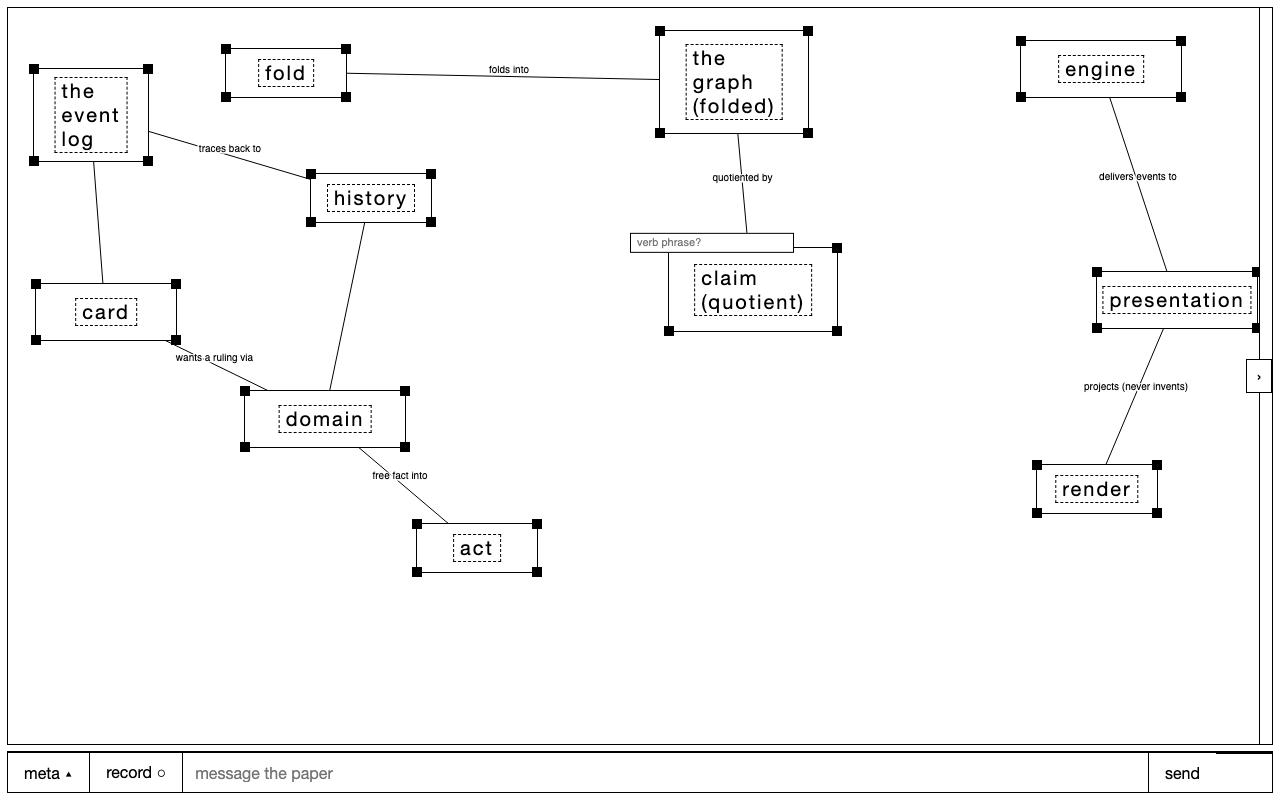
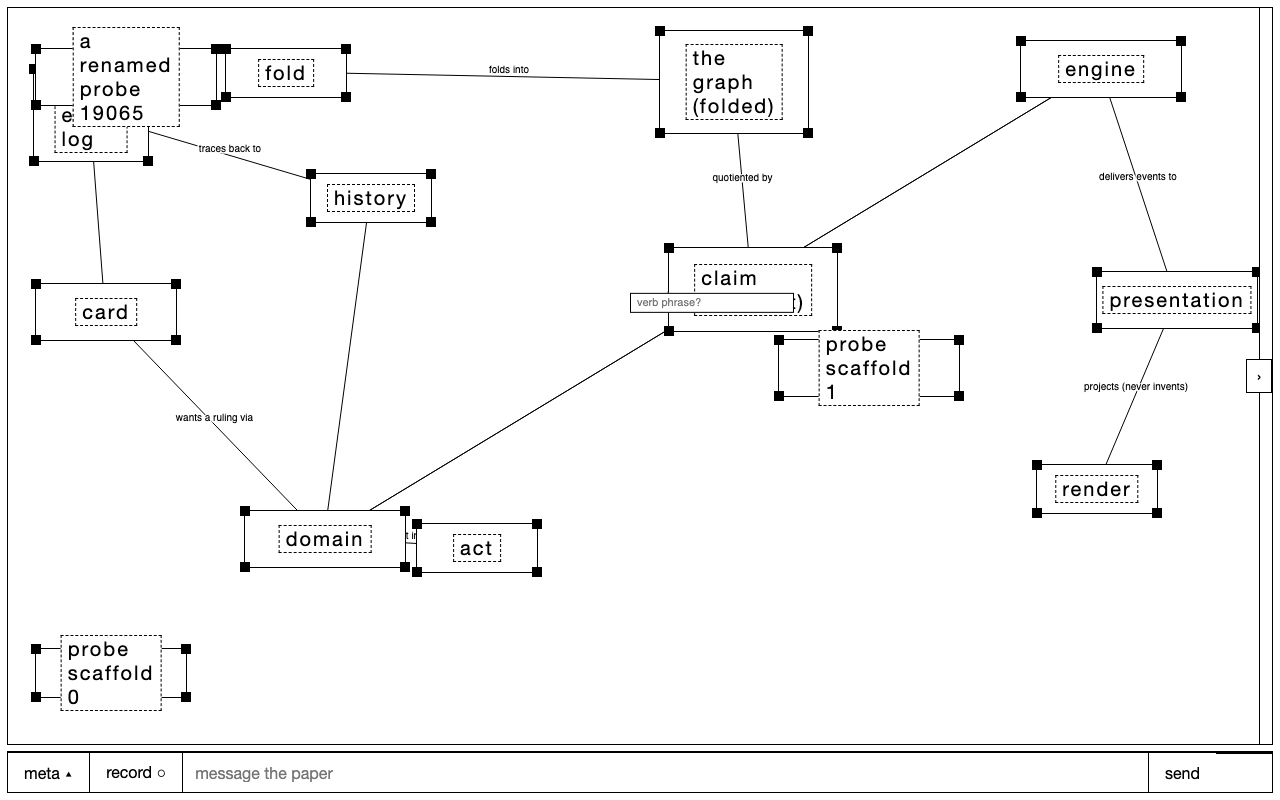
nodes by hand: dblclick empty plane creates (inline name ask, n_<ts>_<rand4>), dblclick a pill renames in place (same id — identity preserved, profile changes). Two bugs of mine found by makeprobe: (1) the link gesture's pointer capture retargets dblclick to the plane, so the handler hit-tests by co

diff --git a/web/index.html b/web/index.html
@@ -95,7 +95,6 @@
           el.dataset.i = i;
           const label = document.createElement('span');
           label.className = 'label';
-          label.textContent = b.label ?? b.name ?? '';
           el.append(label);
           for (const c of ['nw', 'ne', 'sw', 'se']) {
             const h = document.createElement('div');
@@ -105,6 +104,9 @@
           }
           playground.append(el);
         }
+        // reproject EVERY render — a rename must reach an existing element's
+        // label, not just a freshly created one (found by makeprobe)
+        el.querySelector('.label').textContent = b.label ?? b.name ?? '';
         el.style.left = b.x + 'px';
         el.style.top = b.y + 'px';
         el.style.width = b.w + 'px';
@@ -422,6 +424,64 @@ One clause is still owed: a box flanked on both axes at once — one neighbor ea
         logEvent({ kind: 'edge', id: from + '>' + to + (commit ? ':' + commit : ''), from, to, label: commit });
     }
 
+    // ——— node creation & rename: the name ask (same contract as the verb ask) ———
+    // double-click empty playground = create; double-click a label pill = rename.
+    // Enter commits the node act, Escape/blur/click-away abandons. Rename re-emits
+    // the SAME id (latest node per id wins) — the label-arrow changes, the object
+    // doesn't: identity is the fold key, never the profile.
+    let nameAsk = null; // { mode: 'create'|'rename', id?, x?, y?, el }
+    function askName(mode, x, y, id, prefill) {
+      closeName(null); // one ask at a time
+      if (!playground) return;
+      const el = document.createElement('input');
+      el.className = 'verbin'; // same house style — it IS the same kind of ask
+      el.placeholder = mode === 'create' ? 'noun phrase?' : 'rename?';
+      el.value = prefill ?? '';
+      el.style.left = x + 'px';
+      el.style.top = y + 'px';
+      playground.append(el);
+      el.focus();
+      el.select();
+      nameAsk = { mode, id, x, y, el };
+      el.addEventListener('keydown', (ev) => {
+        if (ev.key === 'Enter') closeName(el.value);
+        else if (ev.key === 'Escape') closeName(null);
+      });
+      el.addEventListener('blur', () => closeName(null));
+    }
+    function closeName(commit) {
+      if (!nameAsk) return;
+      const { mode, id, x, y, el } = nameAsk;
+      nameAsk = null;
+      el.remove();
+      if (commit === null || !commit.trim()) return; // empty = abandon
+      if (mode === 'create') {
+        const r4 = Math.random().toString(36).slice(2, 6);
+        logEvent({ kind: 'node', id: 'n_' + Date.now() + '_' + r4, label: commit.trim(), node_kind: 'object', geom: { x: Math.round(x), y: Math.round(y), w: 180, h: 56 } });
+      } else if (id) {
+        const b = boxes.find((v) => v.name === id);
+        logEvent({ kind: 'node', id, label: commit.trim(), node_kind: b?.kind });
+      }
+    }
+    plane.addEventListener('dblclick', (e) => {
+      if (!sketch || !playground || nameAsk || verbAsk) return;
+      // pointer capture retargets dblclick to the plane (the link gesture grabs
+      // capture on first click), so e.target lies — hit-test by coordinates
+      const hit = document.elementFromPoint(e.clientX, e.clientY);
+      if (!hit) return;
+      const pill = hit.closest('.label');
+      const boxEl = hit.closest('.box');
+      if (pill && boxEl) { // rename in place
+        const b = boxes[+boxEl.dataset.i];
+        if (!b) return;
+        askName('rename', b.x + b.w / 2, b.y + b.h / 2, b.name, b.label);
+      } else if (hit === playground) { // create at the click point
+        const r = playground.getBoundingClientRect();
+        askName('create', e.clientX - r.left, e.clientY - r.top, null, '');
+      }
+      // clicks on box bodies / handles / doc elements: not ours
+    });
+
     plane.addEventListener('pointerup', (e) => {
       if (link) { // drop on a box opens the verb ask; drop in space abandons
         const target = document.elementFromPoint(e.clientX, e.clientY)?.closest('.box');
@@ -577,7 +637,7 @@ THE THREE MACHINES (07:50): the system is layered orthogonal state machines — 
     document.getElementById('fprev').addEventListener('click', () => switchFrame(frame - 1));
     document.getElementById('fnext').addEventListener('click', () => switchFrame(frame + 1));
     document.addEventListener('keydown', (e) => {
-      if (e.target === t || e.target === verbAsk?.el) return; // typing in the chat bar or the verb ask
+      if (e.target === t || e.target === verbAsk?.el || e.target === nameAsk?.el) return; // typing in the chat bar or any inline ask
       if (e.key === 'ArrowLeft') switchFrame(frame - 1);
       if (e.key === 'ArrowRight') switchFrame(frame + 1);
     });

diff --git a/web/makeprobe.ts b/web/makeprobe.ts
@@ -1,0 +1,78 @@
+// web/makeprobe.ts — verify node creation (dblclick empty plane) and rename
+// in place (dblclick a label pill, same id preserved). Run: bun web/makeprobe.ts
+
+import { chromium } from "../prototypes/interaction/node_modules/playwright/index.js";
+import { mkdirSync } from "node:fs";
+
+const URL = process.env.PAPER_URL ?? "http://localhost:5174";
+const OUT = "web/shots";
+mkdirSync(OUT, { recursive: true });
+
+const browser = await chromium.launch();
+const page = await browser.newPage({ viewport: { width: 1280, height: 800 } });
+page.on("pageerror", (e) => console.log("pageerror:", String(e).slice(0, 300)));
+await page.goto(URL, { waitUntil: "networkidle" });
+await page.waitForTimeout(2500);
+
+for (let i = 0; i < 9; i++) {
+  const t = await page.locator("#frame-title").textContent();
+  if (t.includes("olog")) break;
+  await page.click("#fnext");
+  await page.waitForTimeout(150);
+}
+console.log("frame:", await page.locator("#frame-title").textContent());
+
+const stamp = Date.now() % 100000;
+const NAME = "a probe node " + stamp;
+const RENAME = "a renamed probe " + stamp;
+
+// (a) create: double-click a clear spot mid-plane (not near an edge —
+// nodes overflow the playground bottom and clicks then miss the pill)
+const pg = await page.locator("#playground").boundingBox();
+await page.mouse.dblclick(pg.x + pg.width * 0.85, pg.y + pg.height * 0.35);
+const ask = page.locator(".verbin");
+console.log("create ask visible:", await ask.count() === 1);
+await ask.fill(NAME);
+await ask.press("Enter");
+await page.waitForTimeout(2600); // act → drain → poll
+
+const created = page.locator("#playground .box", { hasText: NAME });
+const createdCount = await created.count();
+console.log("created node on plane:", createdCount === 1);
+await page.screenshot({ path: `${OUT}/olog-make-1-created.png` });
+
+// (b) rename: double-click the pill of the node we just made (mid-plane, safe)
+const pill = created.locator(".label");
+await pill.dblclick();
+const ask2 = page.locator(".verbin");
+console.log("rename ask visible:", await ask2.count() === 1);
+await ask2.fill(RENAME);
+await ask2.press("Enter");
+await page.waitForTimeout(2600);
+
+const renamed = await page.locator("#playground .box", { hasText: RENAME }).count();
+const oldGone = await page.locator("#playground .box", { hasText: NAME }).count();
+console.log("renamed on plane:", renamed === 1, "old label gone:", oldGone === 0);
+await page.screenshot({ path: `${OUT}/olog-make-2-renamed.png` });
+
+// (c) the log: creation act + rename act — rename must carry the SAME id as
+// the original 'card' node (identity preserved through relabel)
+const log = await (await fetch(URL + "/events")).json();
+const evs = log.events ?? log;
+const createAct = [...evs].reverse().find((e) => e.kind === "node" && e.label === NAME);
+const renameAct = [...evs].reverse().find((e) => e.kind === "node" && e.label === RENAME);
+console.log("create act:", createAct?.id, "| rename act:", renameAct?.id);
+const identity = createAct && renameAct && createAct.id === renameAct.id;
+
+// (d) abandon path: open the ask, Escape — no act, nothing new on plane
+const before = await page.locator("#playground .box").count();
+await page.mouse.dblclick(pg.x + pg.width * 0.6, pg.y + 40);
+await page.locator(".verbin").press("Escape");
+await page.waitForTimeout(300);
+const afterEscape = await page.locator("#playground .box").count();
+console.log("escape abandons:", before === afterEscape && (await page.locator(".verbin").count()) === 0);
+
+const ok = createdCount === 1 && renamed === 1 && oldGone === 0 && identity && before === afterEscape;
+console.log(ok ? "PASS — nodes are made and renamed by hand, identity preserved" : "FAIL");
+await browser.close();
+process.exit(ok ? 0 : 1);

diff --git a/web/dbg7.ts b/web/dbg7.ts
@@ -1,0 +1,26 @@
+import { chromium } from "../prototypes/interaction/node_modules/playwright/index.js";
+const browser = await chromium.launch();
+const page = await browser.newPage({ viewport: { width: 1280, height: 800 } });
+page.on("pageerror", (e) => console.log("pageerror:", String(e).slice(0, 300)));
+page.on("console", (m) => console.log("console:", m.text().slice(0, 200)));
+await page.goto("http://localhost:5174", { waitUntil: "networkidle" });
+await page.waitForTimeout(2500);
+for (let i = 0; i < 9; i++) {
+  const t = await page.locator("#frame-title").textContent();
+  if (t.includes("olog")) break;
+  await page.click("#fnext"); await page.waitForTimeout(150);
+}
+await page.evaluate(() => {
+  window.__dbg = [];
+  document.getElementById('plane').addEventListener('dblclick', (e) => {
+    window.__dbg.push({ tgt: e.target.className + '|' + e.target.tagName, pill: !!e.target.closest('.label'), box: !!e.target.closest('.box') });
+  }, true);
+});
+const node = page.locator("#playground .box", { hasText: "probe node" }).first();
+if (await node.count()) {
+  await node.locator(".label").dblclick();
+  await page.waitForTimeout(400);
+  console.log("dblclick seen:", JSON.stringify(await page.evaluate(() => window.__dbg)));
+  console.log("verbin count:", await page.locator(".verbin").count());
+} else console.log("no probe node found — check label");
+await browser.close();

diff --git a/web/dbg9.ts b/web/dbg9.ts
@@ -1,0 +1,16 @@
+import { chromium } from "../prototypes/interaction/node_modules/playwright/index.js";
+const browser = await chromium.launch();
+const page = await browser.newPage({ viewport: { width: 1280, height: 800 } });
+page.on("pageerror", (e) => console.log("pageerror:", String(e).slice(0, 300)));
+page.on("console", (m) => { const t = m.text(); if (t.includes("box") || t.includes("node")) console.log("console:", t.slice(0, 150)); });
+await page.goto("http://localhost:5174", { waitUntil: "networkidle" });
+await page.waitForTimeout(2500);
+for (let i = 0; i < 9; i++) {
+  const t = await page.locator("#frame-title").textContent();
+  if (t.includes("olog")) break;
+  await page.click("#fnext"); await page.waitForTimeout(150);
+}
+console.log("boxes:", await page.locator("#playground .box").count());
+console.log("renamed present:", await page.locator("#playground .box", { hasText: "renamed probe" }).count());
+console.log("old present:", await page.locator("#playground .box", { hasText: "a probe node 64858" }).count());
+await browser.close();

diff --git a/web/dbg8.ts b/web/dbg8.ts
@@ -1,0 +1,17 @@
+import { chromium } from "../prototypes/interaction/node_modules/playwright/index.js";
+const browser = await chromium.launch();
+const page = await browser.newPage({ viewport: { width: 1280, height: 800 } });
+await page.goto("http://localhost:5174", { waitUntil: "networkidle" });
+await page.waitForTimeout(2500);
+for (let i = 0; i < 9; i++) {
+  const t = await page.locator("#frame-title").textContent();
+  if (t.includes("olog")) break;
+  await page.click("#fnext"); await page.waitForTimeout(150);
+}
+const node = page.locator("#playground .box", { hasText: "probe node" }).first();
+const nb = await node.boundingBox();
+const pg = await page.locator("#playground").boundingBox();
+console.log("node", nb, "\nplayground", pg);
+const pill = node.locator(".label");
+console.log("pill", await pill.boundingBox());
+await browser.close();
